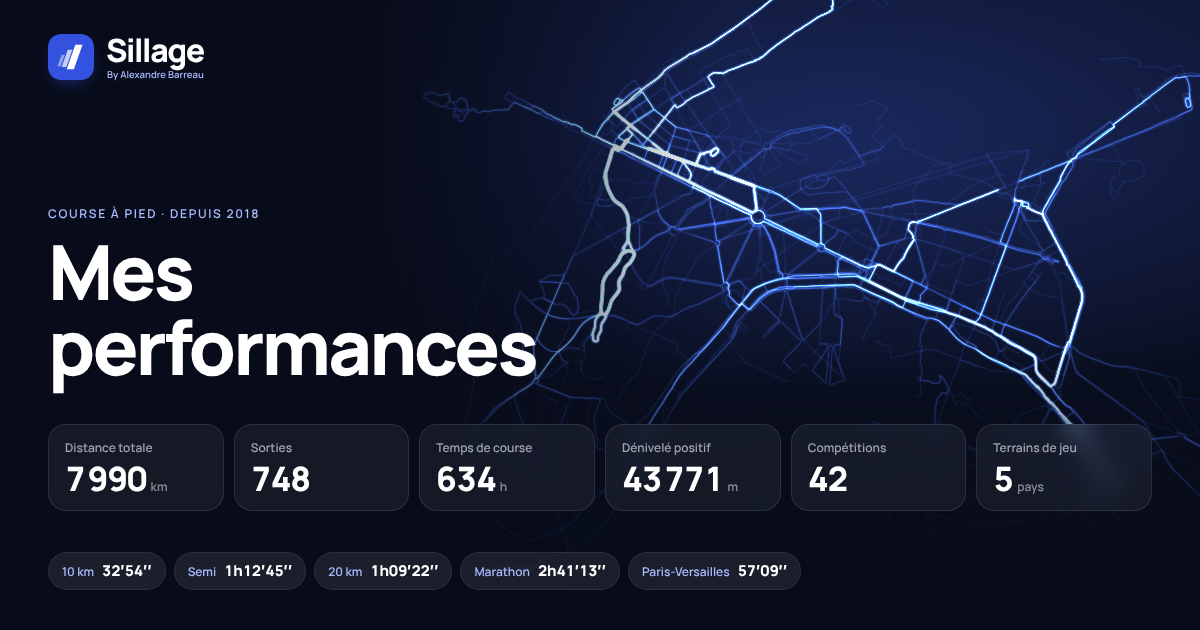
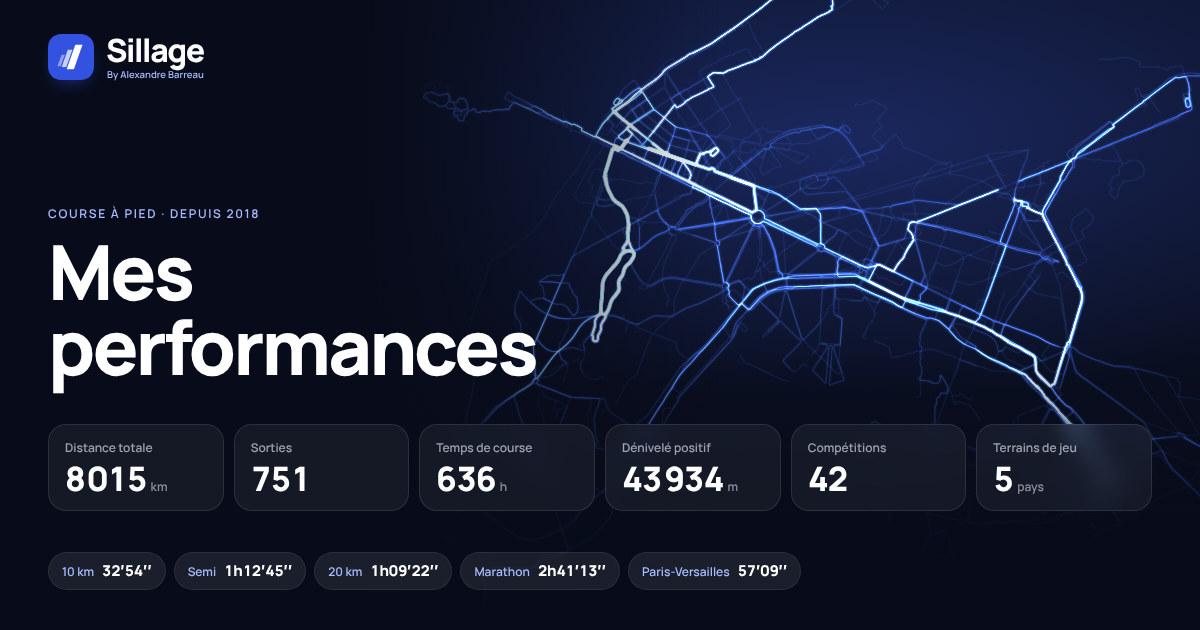
Synchro Strava du 2026-11-11
- 1 nouvelle(s) activité(s) : 2026-11-11 Lunch Run
- 1 activité(s) mise(s) à jour
- 1 sortie(s) avec cardio ajoutée(s)
- tours et records de 1 sortie(s) (553/751 complètes)
- segments de 1 sortie(s) (553/751 complètes)
- 1 tracé(s) GPS (740 au total)

Analyse : Vérification horaire : une nouvelle sortie (Lunch Run du 11/11, 9,1 km en fractionné 400 m, allure facile), aucune compétition dans la fenêtre.

diff --git a/sync/journal.md b/sync/journal.md
@@ -2,6 +2,7 @@
 
 Une ligne par synchro, la plus récente en haut.
 
+- 2026-11-11 15:17 · 1 nouvelle(s) activité(s) : 2026-11-11 Lunch Run ; 1 activité(s) mise(s) à jour ; 1 sortie(s) avec cardio ajoutée(s) ; tours et records de 1 sortie(s) (553/751 complètes) ; segments de 1 sortie(s) (553/751 complètes) ; 1 tracé(s) GPS (740 au total) · Vérification horaire : une nouvelle sortie (Lunch Run du 11/11, 9,1 km en fractionné 400 m, allure facile), aucune compétition dans la fenêtre.
 - 2026-11-11 01:09 · 1 nouvelle(s) activité(s) : 2026-11-10 Evening Run ; 1 activité(s) mise(s) à jour ; 1 sortie(s) avec cardio ajoutée(s) ; tours et records de 21 sortie(s) (552/750 complètes) ; segments de 21 sortie(s) (552/750 complètes) ; 1 tracé(s) GPS (739 au total) · Aucune compétition depuis le 26/10 : titres génériques, sorties en semaine et séances de fractionné sur piste (dont la nouvelle du 10/11, 13,4 km avec un écoulé bien plus long que le temps en mouvement).
 - 2026-11-10 01:09 · 1 nouvelle(s) activité(s) : 2026-11-09 Evening Run ; 1 sortie(s) avec cardio ajoutée(s) ; tours et records de 21 sortie(s) (531/749 complètes) ; segments de 21 sortie(s) (531/749 complètes) ; 1 tracé(s) GPS (738 au total) · Une seule nouvelle sortie (2,7 km, Paris, lente, pas une compétition). Marseille-Cassis déjà connue, inchangée ; pas de chrono officiel ni de classement dans la description.
 - 2026-11-09 15:22 · 1 nouvelle(s) activité(s) : 2026-11-08 Afternoon Run ; 1 activité(s) mise(s) à jour ; 1 sortie(s) avec cardio ajoutée(s) ; tours et records de 1 sortie(s) (510/748 complètes) ; segments de 1 sortie(s) (510/748 complètes) ; 1 tracé(s) GPS (737 au total) · Vérification horaire : nouvelle sortie du 8 novembre (Afternoon Run, 8,6 km, allure facile, titre générique) ; aucune compétition.
